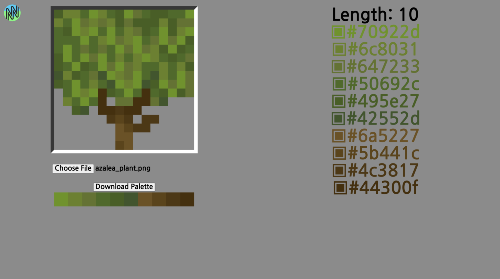
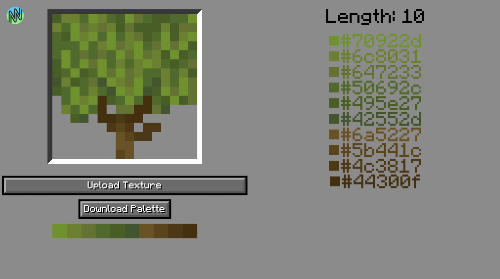
Updated palette puller ui

Changed region(s): [[0.0, 0.0, 0.51, 0.8602], [0.63, 0.0287, 0.87, 0.7168], [0.0, 0.0, 0.06, 0.086]]

diff --git a/palettepuller.html b/palettepuller.html
@@ -4,9 +4,42 @@
     <title>nera - Palette Puller</title>
     <link rel="icon" href="neralogo.png">
     <style>
+        @font-face {
+            font-family: mcfont;
+            src: url(mcfont.ttf);
+        }
+
+        input, select, button, #downloadbtn {
+            padding:4px;
+            color:white;
+            width:100%;
+            margin:24px 0;
+            font: 16px mcfont, sans-serif;
+            text-shadow: 2px 2px black;
+            box-sizing: border-box;
+        }
+        input, select {
+            background-color:black;
+            border:1px solid white;
+            outline:0;
+        }
+        button, select {
+            cursor:pointer;
+        }
+        button, #downloadbtn {
+            background-color:#6B6B6B;
+            outline:4px solid black;
+            border-top: 4px solid #AAAAAA;
+            border-left: 4px solid #AAAAAA;
+            border-bottom: 4px solid #535353;
+            border-right: 4px solid #535353;
+            padding:0 auto;
+            text-decoration: none;
+        }
+
+
         body {
             background-color:#8B8B8B;
-            font:50px 'Nanum Gothic', sans-serif;
             margin:0px;
             padding:0px;
             width:100vw;
@@ -23,13 +56,9 @@
             image-rendering:pixelated;
         }
         p {
-            font:50px 'Nanum Gothic', sans-serif;
+            font: 32px mcfont, sans-serif;
             padding:0px;
             margin:0px;
-        }
-        input, input::file-selector-button, #downloadbtn {
-            padding:0 5px 3px 5px;
-            font: 20px 'Nanum Gothic', sans-serif;
         }
         #inputdiv, #outputdiv {
             width:calc(50vw - 20px);
@@ -43,21 +72,6 @@
         }
         #outputdiv {
             overflow:scroll;
-        }
-        #downloadbtn {
-            text-decoration:none;
-            color:black;
-            background-color:#EFEFEF;
-            border:2px solid #767676;
-            border-radius:3px;
-        }
-        #downloadbtn:hover {
-            background-color: #E5E5E5;
-            border:2px solid #4F4F4F;
-        }
-        #downloadbtn:active {
-            background-color:#F5F5F5;
-            border:2px solid #F5F5F5;
         }
         #inputdiv::-webkit-scrollbar, #outputdiv::-webkit-scrollbar, .hidden {
             display:none;
@@ -76,9 +90,13 @@
             -webkit-border-radius: 3vh;
             border-radius: 3vh;
         }
+        #imageLoader {
+            display: none;
+        }
+        #paletteCanvas {
+            padding-top: 20px;
+        }
     </style>
-    <link rel="preconnect" href="https://fonts.gstatic.com">
-    <link href="https://fonts.googleapis.com/css2?family=Nanum+Gothic:wght@700&display=swap" rel="stylesheet">
     <!-- Google tag (gtag.js) -->
     <script async src="https://www.googletagmanager.com/gtag/js?id=G-5DJPSM88KS"></script>
     <script>
@@ -93,6 +111,7 @@
     <a href="index.html"><img id="baricon" src="neralogo.png"></a>
     <div id="inputdiv">
     <canvas id="imgCanvas" width="256" height="256">Your browser does not support the HTML5 canvas tag.</canvas><br>
+    <button id="fakeImageLoader" onclick="document.getElementById('imageLoader').click()">Upload Texture</button>
     <input type="file" id="imageLoader" name="imageLoader"/><br>
     <a download="download" href="" id="downloadbtn">Download Palette</a><br>
     <canvas id="paletteCanvas" width="0" height="1"></canvas>
@@ -110,10 +129,12 @@
     var problems = [];
 
     function go() {
-        function getScore(r,g,b) {
-            r /= 255;
-            g /= 255;
-            b /= 255;
+        function getScore(hex) {
+            let temp = /^#?([a-f\d]{2})([a-f\d]{2})([a-f\d]{2})$/i.exec(hex.slice(0,7));
+            let r = parseInt(temp[1], 16)/255;
+            let g = parseInt(temp[2], 16)/255;
+            let b = parseInt(temp[3], 16)/255;
+
             let cmin = Math.min(r,g,b),
                 cmax = Math.max(r,g,b),
                 delta = cmax - cmin,
@@ -166,27 +187,29 @@
         let imgData = ctx.getImageData(0, 0, c.width, c.height).data;
         let ghost = false;
         for (var i=0;i<imgData.length;i+=4) {
-            let pickedColor = getScore(imgData[i],imgData[i+1],imgData[i+2]) +"|"+ rgbToHex(imgData[i+0],imgData[i+1],imgData[i+2],imgData[i+3]);
-            if (imgData[i+3]!=0 && imgData[i+3]<32) {
+            let pickedColor = rgbToHex(imgData[i+0],imgData[i+1],imgData[i+2],imgData[i+3]);
+            if (imgData[i+3]==0) continue;
+            if (!ghost && imgData[i+3]<32) {
                 ghost = true;
             }
             if (pickedColor.slice(-2)=="ff") { // remove full opacity suffix
                 pickedColor = pickedColor.slice(0,-2);
             }
-            if (colors.indexOf(pickedColor)==-1 && imgData[i+3]!=0) {
+            if (!colors.includes(pickedColor)) {
                 colors.push(pickedColor);
             }
         }
+        console.log(colors);
         if (ghost == true) {
             document.getElementById('problemtext').innerHTML = "Warning: Ghost Pixels";
         }
         
-        colors.sort(function(a, b) {return parseInt(b) - parseInt(a);});
+        colors.sort(function(a, b) {return getScore(b) - getScore(a);});
         pc.width = colors.length;
-        let output = '<p>Length: '+colors.length+'</p>';
+        let output = '<p>Length: '+colors.length+'</p><br>';
         for (var i=0;i<colors.length;i++) {
-            let sel = colors[i].split("|")[1];
-            output += '<p style="color:'+sel+'; !important">▣'+sel+'</p>';
+            let sel = colors[i];
+            output += '<p style="color:'+sel+'; !important">■'+sel+'</p>';
             // set download canvas
             pctx.fillStyle = sel;
             pctx.fillRect(i,0,1,1);
@@ -245,7 +268,7 @@
         [colors[x], colors[downIdx]] = [colors[downIdx], colors[x]];
         let output = '<p>Length: '+colors.length+'</p>';
         for (var i=0;i<colors.length;i++) {
-            let sel = colors[i].split("|")[1];
+            let sel = colors[i];
             output += '<p style="color:'+sel+'; !important">▣'+sel+'</p>';
         }
         document.getElementById("outputdiv").innerHTML=output;
